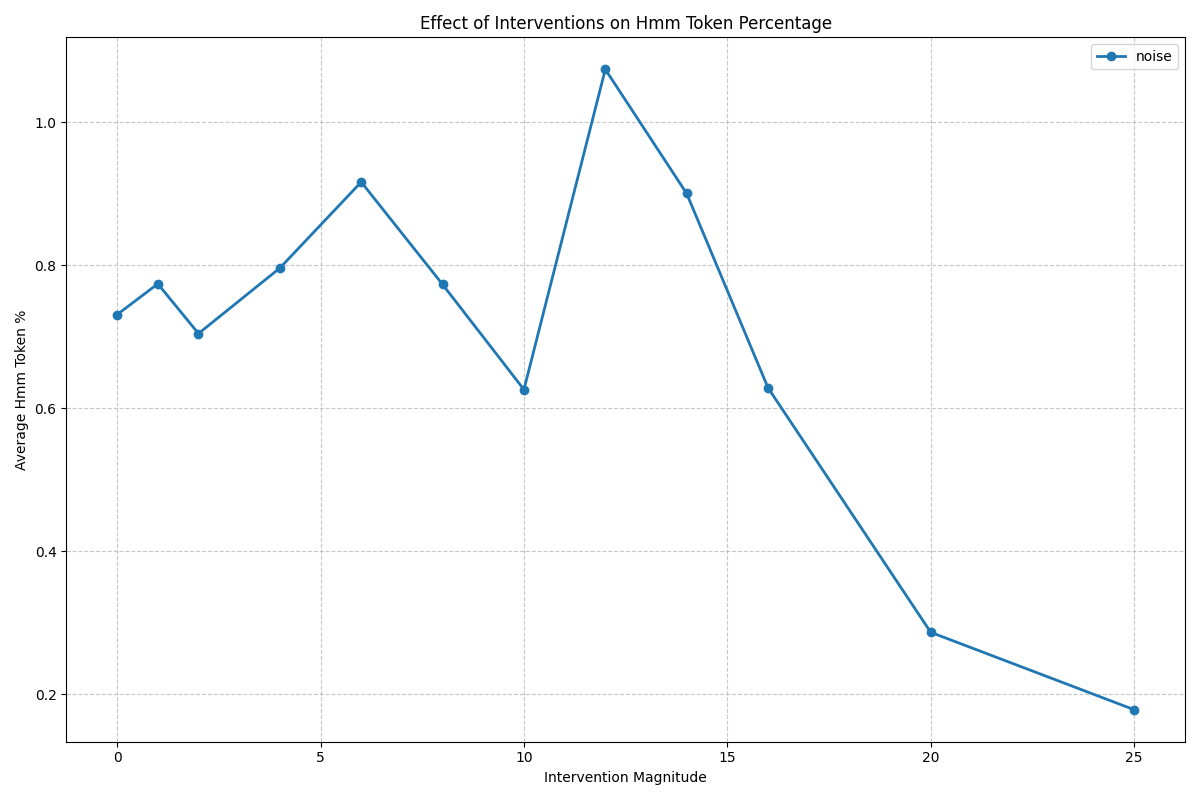
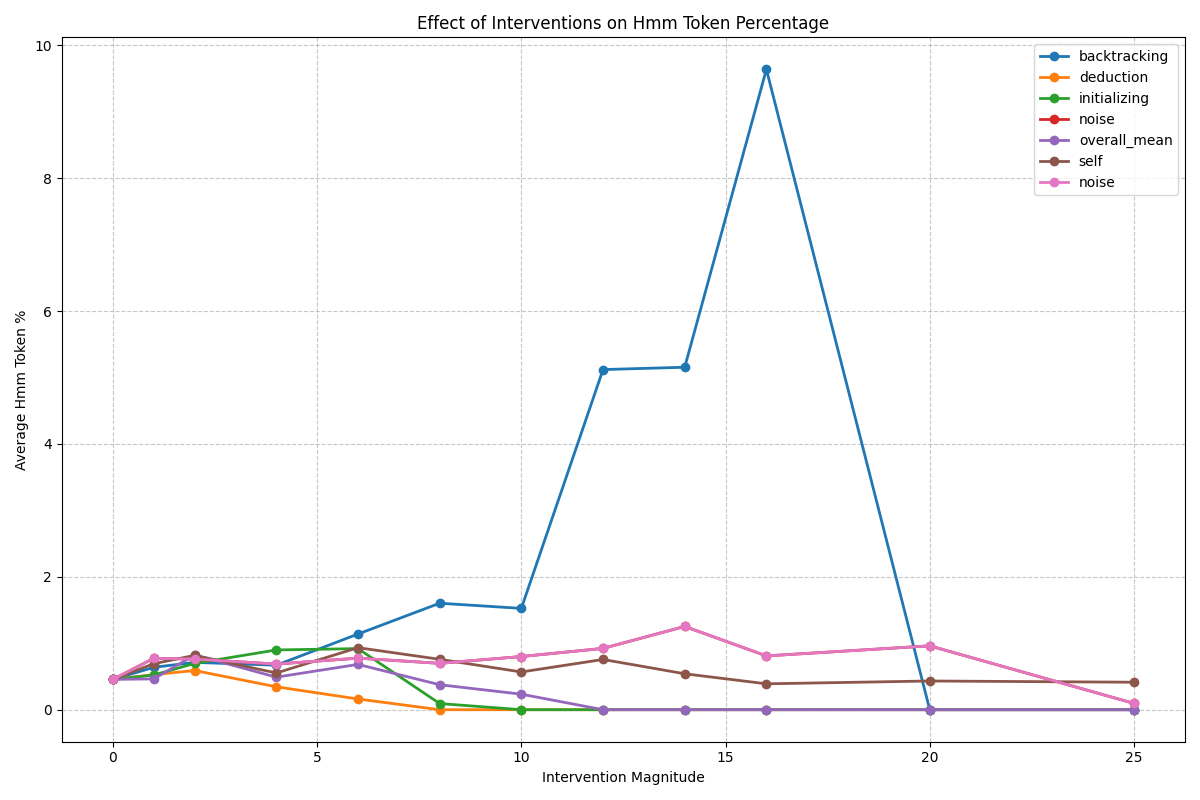
update baseline plot

diff --git a/run_experiment.py b/run_experiment.py
@@ -15,8 +15,8 @@ num_prompts = 10
 layer_of_interest = 10
 max_new_tokens = 128
 seed = 43
-# intervention_types = ["backtracking", "deduction", "initializing", "noise", "overall_mean", "self"]
-intervention_types = ["noise"]
+intervention_types = ["backtracking", "deduction", "initializing", "noise", "overall_mean", "self", "noise"]
+# intervention_types = ["noise"]
 def load_random_prompts(file_path, num_prompts):
     with open(file_path, "r") as f:
         all_prompts = json.load(f)
@@ -75,6 +75,8 @@ def run_experiment():
     # Generate steering vectors
     print("Generating steering vectors...")
     steering_vectors, overall_mean, model = generate_steering_vectors("annotated_chains/all_annotated_chains.json", layer_of_interest)
+    steering_vectors = torch.load("base_steering_vectors.pt")
+    steering_vectors = {k: v / v.norm(dim=-1, keepdim=True) for k, v in steering_vectors.items()}
     
     # Prepare intervention vectors
     intervention_vectors = steering_vectors.copy()
